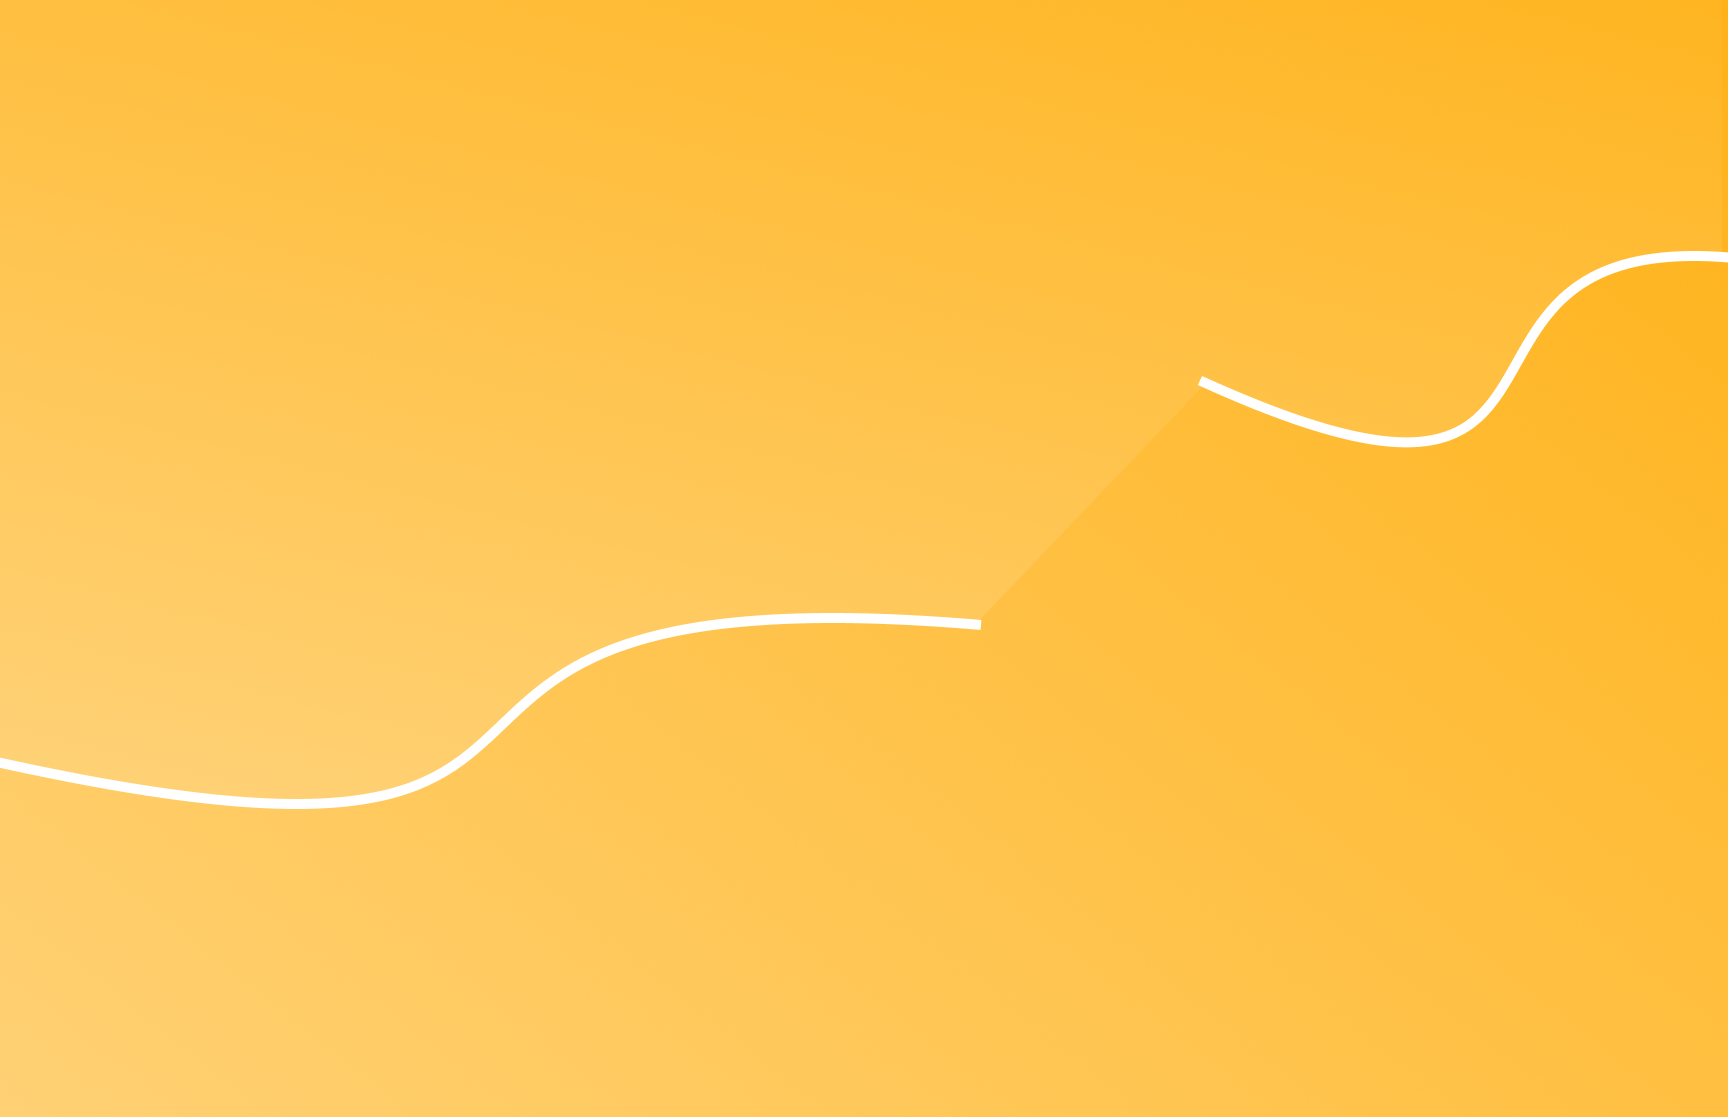
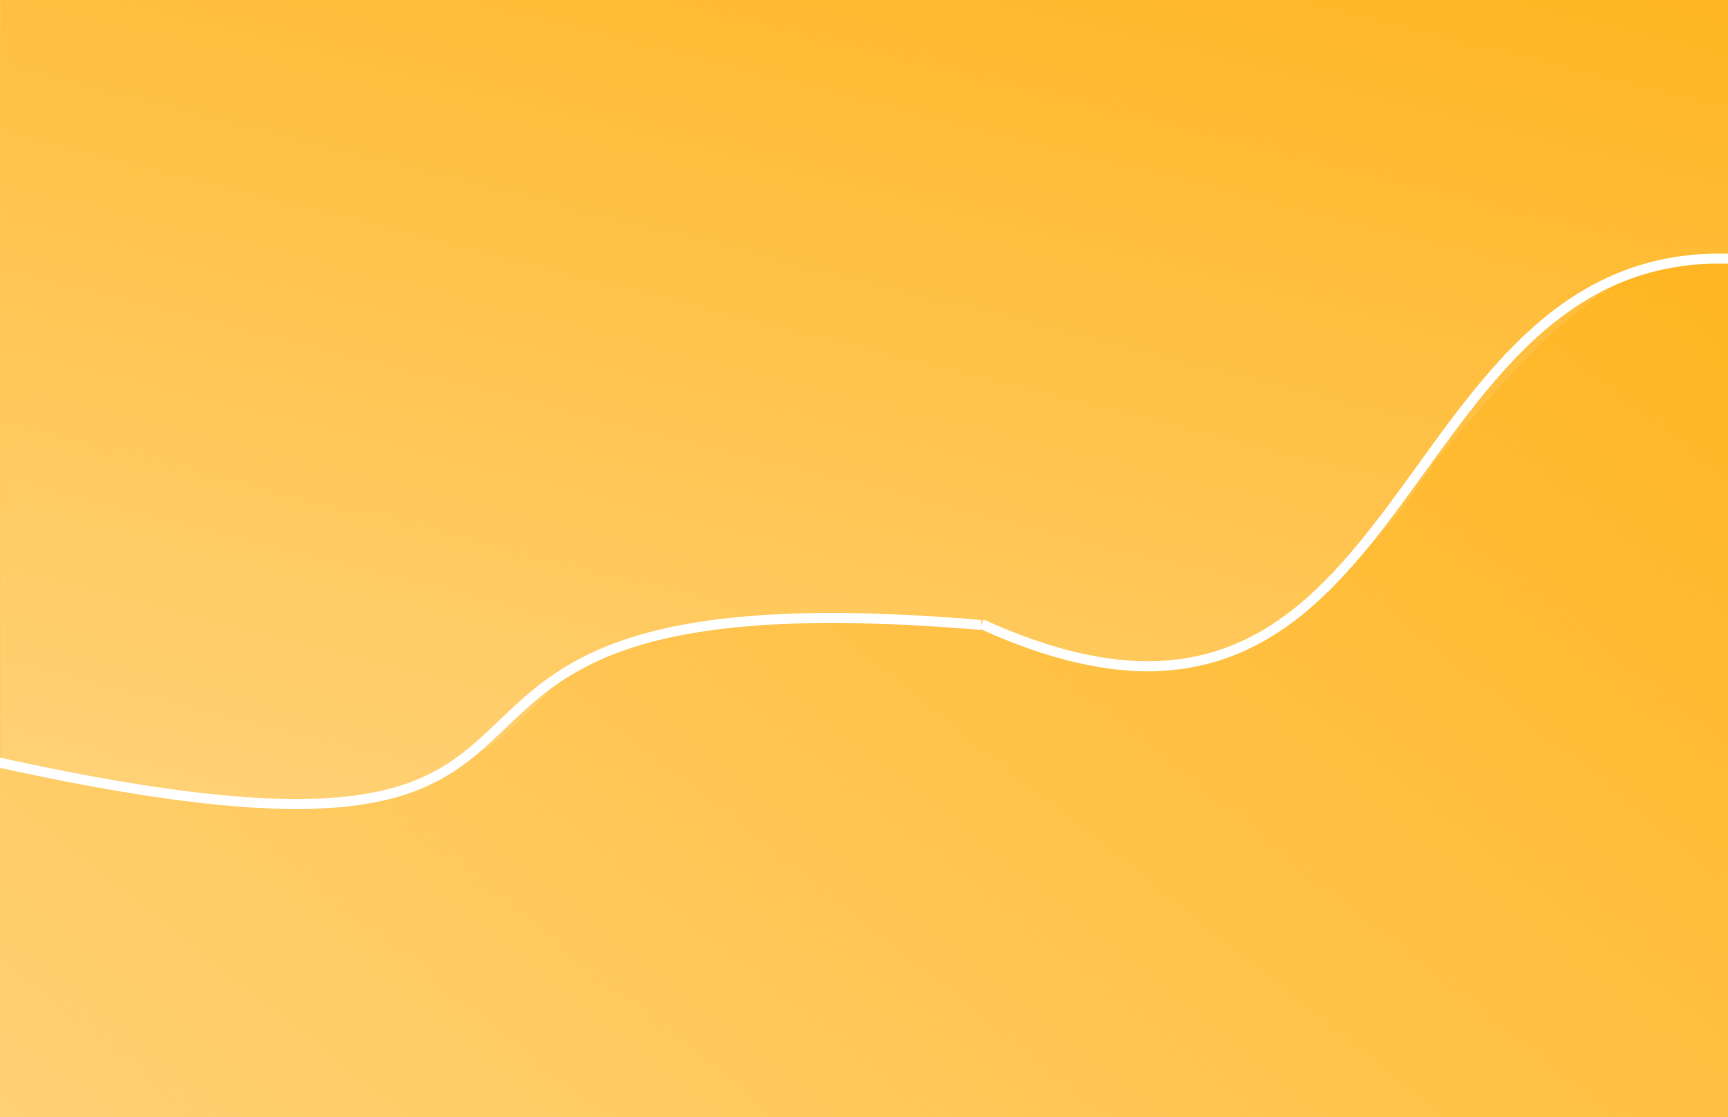
인증코드 복붙&잠금

Changed region(s): [[0.5938, 0.2739, 0.9062, 0.6088], [0.9062, 0.2131, 1.0, 0.2739], [0.5625, 0.5479, 0.5938, 0.5783]]

diff --git a/src/components/ui/VerificationCodeModal.jsx b/src/components/ui/VerificationCodeModal.jsx
@@ -33,12 +33,35 @@ const VerificationCodeModal = ({ email, onClose, onVerify, onResend }) => {
     `${Math.floor(s / 60)}:${String(s % 60).padStart(2, "0")}`;
 
   const handleChange = (index, value) => {
+    if (value.length > 1) {
+      const digits = value.replace(/\D/g, "").slice(0, 6).split("");
+      const next = [...codes];
+      digits.forEach((d, i) => {
+        if (index + i < 6) next[index + i] = d;
+      });
+      setCodes(next);
+      setError("");
+      const nextIdx = Math.min(index + digits.length, 5);
+      inputs.current[nextIdx]?.focus();
+      return;
+    }
     if (!/^\d?$/.test(value)) return;
     const next = [...codes];
     next[index] = value;
     setCodes(next);
     setError("");
-    if (value && index < 5) inputs.current[index + 1]?.focus();
+  }
+
+  const handlePaste = (e, index) => {
+    e.preventDefault();
+    const digits = e.clipboardData.getData("text").replace(/\D/g, "").slice(0, 6).split("");
+    const next = [...codes];
+    digits.forEach((d, i) => {
+      if (index + i < 6) next[index + i] = d;
+    });
+    setCodes(next);
+    const nextIdx = Math.min(index + digits.length, 5);
+    inputs.current[nextIdx]?.focus();
   };
 
   const handleKeyDown = (index, e) => {
@@ -111,9 +134,9 @@ const VerificationCodeModal = ({ email, onClose, onVerify, onResend }) => {
               ref={(el) => (inputs.current[i] = el)}
               type="text"
               inputMode="numeric"
-              maxLength={1}
               value={val}
               onChange={(e) => handleChange(i, e.target.value)}
+              onPaste={(e) => handlePaste(e, i)}
               onKeyDown={(e) => handleKeyDown(i, e)}
               className={`w-12 h-12 text-center text-lg font-semibold rounded-xl bg-gray-100 focus:outline-none focus:ring-2 ${error ? "ring-2 ring-red-400" : "focus:ring-yellow-400"}`}
             />

diff --git a/src/components/ui/EmailVerifyButton.jsx b/src/components/ui/EmailVerifyButton.jsx
@@ -4,16 +4,18 @@ import VerificationCodeModal from "./VerificationCodeModal";
 
 const EmailVerifyButton = ({ email }) => {
   const [showModal, setShowModal] = useState(false);
+  const [verified, setVerified] = useState(false);
 
   return (
     <>
       <button
         type="button"
         onClick={() => {
+          if (verified) return;
           if (!email) return;
           setShowModal(true);
         }}
-        style={{ backgroundColor: "#2C3898", width: "112px", height: "44px" }}
+        style={{ backgroundColor: verified ? "#808080ff" : "#2C3898", width: "112px", height: "44px" }}
         className="text-2xl font-semibold text-white transition-opacity rounded-xl hover:opacity-90"
       >
         인증하기
@@ -22,7 +24,7 @@ const EmailVerifyButton = ({ email }) => {
         <VerificationCodeModal
           email={email}
           onClose={() => setShowModal(false)}
-          onVerify={() => setShowModal(false)}
+          onVerify={() => { setShowModal(false); setVerified(true); }}
         />,
         document.body
       )}

diff --git a/src/components/layout/box/SideBar.jsx b/src/components/layout/box/SideBar.jsx
@@ -1,10 +1,10 @@
 import { useNavigate } from "react-router-dom";
 import homeIcon from "@/images/icon/Home.png";
-import businessIcon from "../../../images/icon/Search.png";
-import landIcon from "../../../images/icon/Field.png";
-import settingIcon from "../../../images/icon/Settings.png";
-import logoutIcon from "../../../images/icon/Logout.png";
-import chatIcon from "../../../images/icon/Chat.png";
+import businessIcon from "@/images/icon/Search.png";
+import landIcon from "@/images/icon/Field.png";
+import settingIcon from "@/images/icon/Settings.png";
+import logoutIcon from "@/images/icon/Logout.png";
+import chatIcon from "@/images/icon/Chat.png";
 
 const NavItem = ({ icon, label, onClick }) => (
   <button

diff --git a/src/main.jsx b/src/main.jsx
@@ -1,13 +1,13 @@
-import { StrictMode } from "react";
+// import { StrictMode } from "react";
 import { createRoot } from "react-dom/client";
 import { BrowserRouter } from "react-router-dom";
 import App from "./App.jsx";
 import "./index.css";
 
 createRoot(document.getElementById("root")).render(
-  <StrictMode>
+  // 
     <BrowserRouter>
       <App />
     </BrowserRouter>
-  </StrictMode>
+  // 
 );
